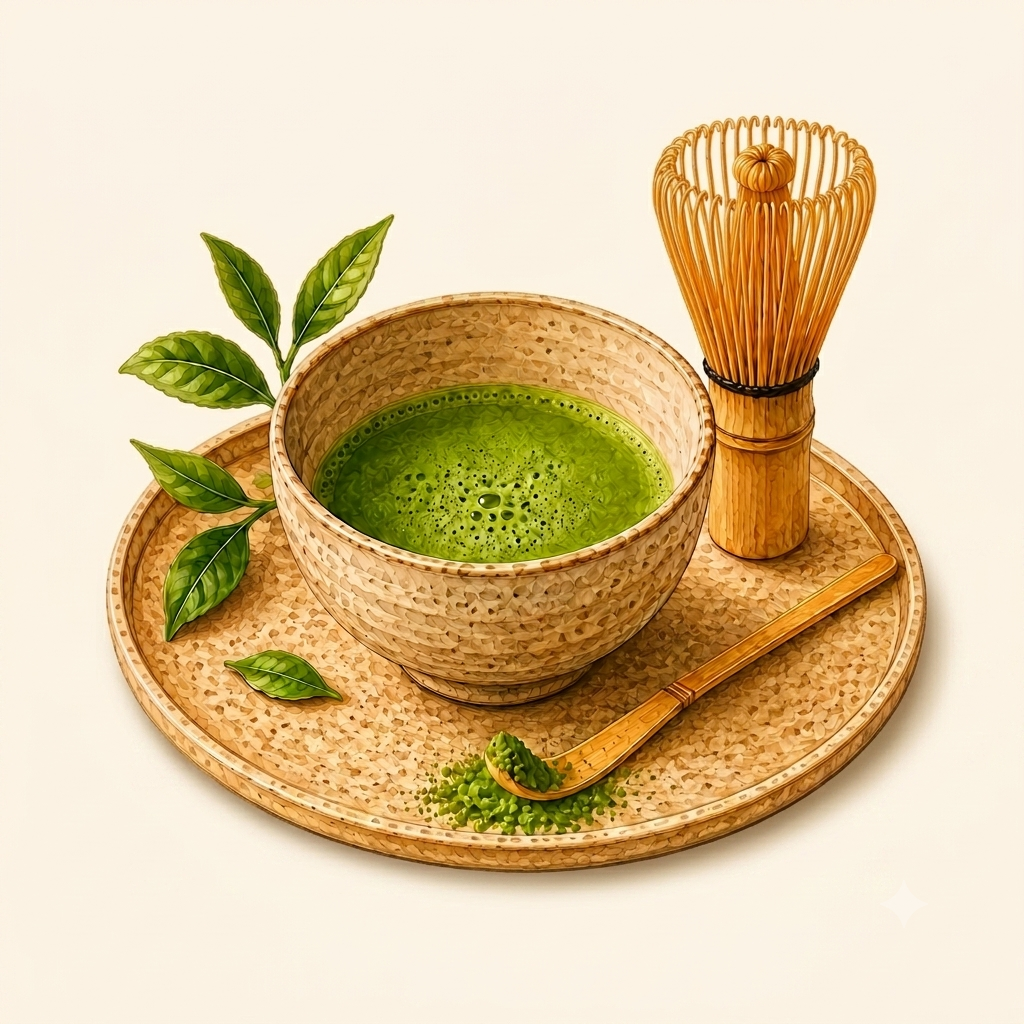
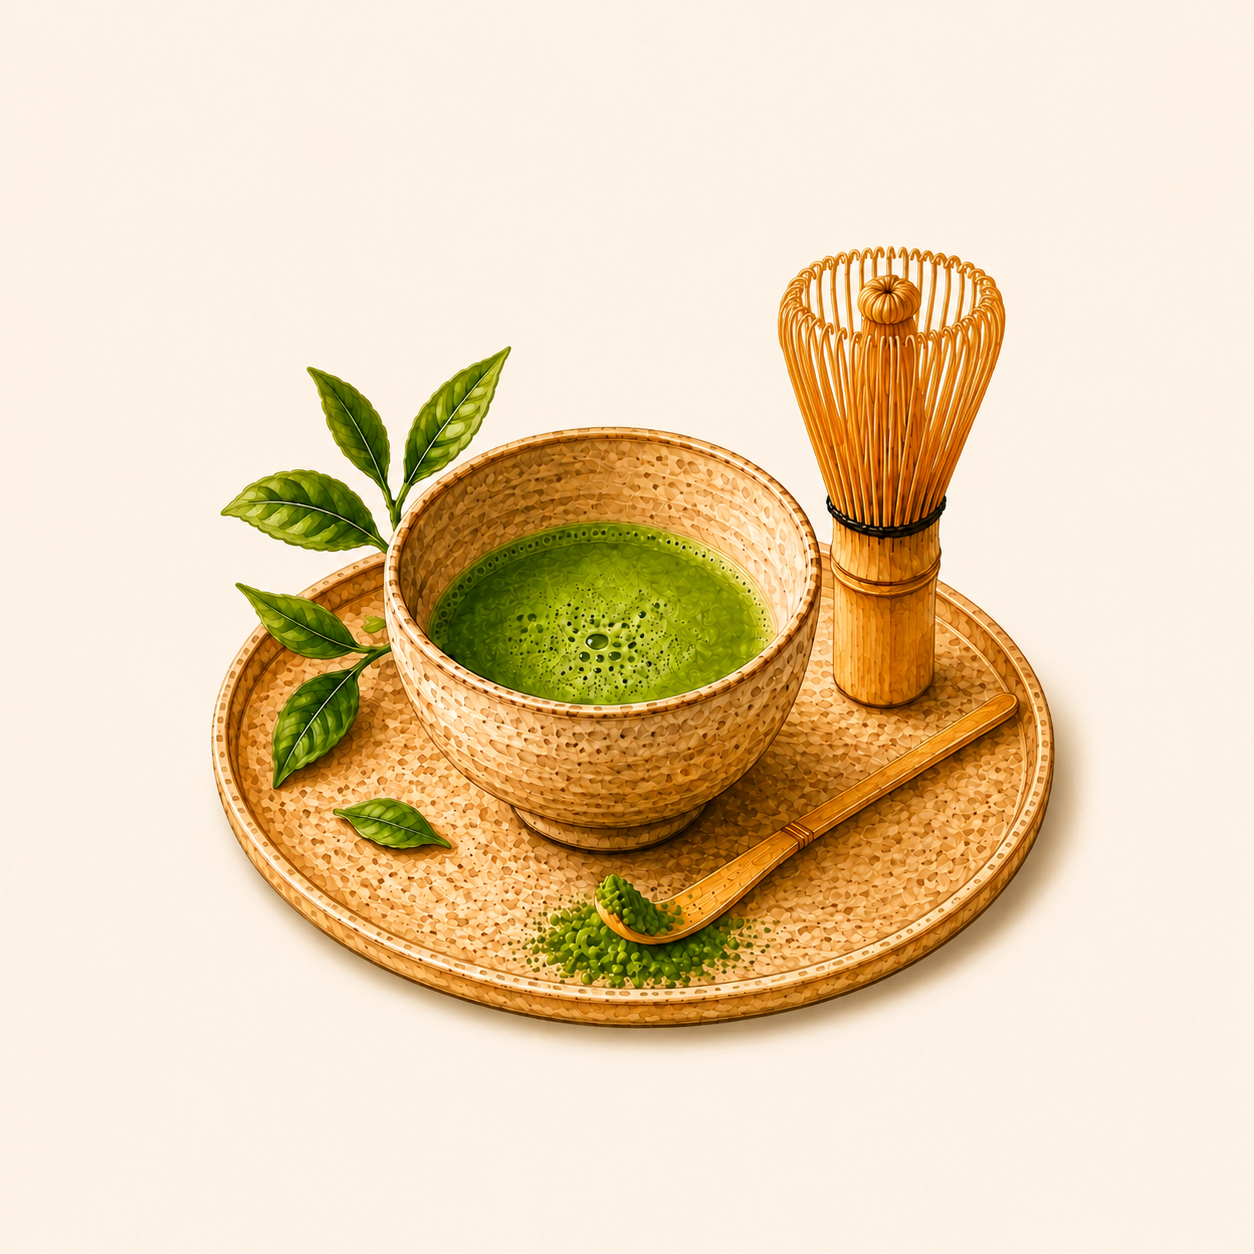
Ticker rebuild: 2 horizontal rows tilted 8°, cream bg, dark border cards
- Ticker: rebuilt as two horizontal rows at 8° diagonal tilt
  top row scrolls left, bottom row scrolls right; 3 images per row
  42vw square cards, dark border, cream #FCF8F2 background
  seamless loop via [A,B,C,A,B,C] + translateX(-50%) + margin-right on cards
- Removed rupee burst / money shower completely
- Removed T&C from collectible card, card reverted to original clean design
- Shubh muhurat: eyebrow-label span with margin-right:-0.22em cancels
  trailing letter-spacing so both flower gaps are exactly equal
- Fix fred again image: renamed music-fredagain.PNG → .png (case-sensitive on Vercel)
- Updated food-matcha.png asset

diff --git a/app/src/styles.css b/app/src/styles.css
@@ -1061,11 +1061,17 @@ button {
   top: 28px;
   font-family: var(--display);
   font-size: 15px;
-  letter-spacing: 0.22em;
   opacity: 0.8;
   display: flex;
   align-items: center;
   gap: 0;
+}
+
+/* letter-spacing lives on the text span, not the flex parent, so trailing
+   letter-spacing doesn't make the right flower gap wider than the left */
+.eyebrow-label {
+  letter-spacing: 0.22em;
+  margin-right: -0.22em;
 }
 
 .eyebrow-flower {
@@ -1108,14 +1114,11 @@ button {
   100% { transform: scale(1.04); }
 }
 
-/* ---- ticker: pre-card-reveal scrolling columns ---- */
+/* ---- ticker: two horizontal rows, tilted 8° as one diagonal belt ---- */
 .ticker-bg {
   position: fixed;
   inset: 0;
-  background: #1C0A06;
-  display: flex;
-  gap: 0;
-  align-items: flex-start;
+  background: #FCF8F2;
   overflow: hidden;
   z-index: 0;
   opacity: 1;
@@ -1123,60 +1126,54 @@ button {
   pointer-events: none;
 }
 
-/* dims behind the collectible card — stays looping continuously */
 .ticker-bg-dim {
-  opacity: 0.35;
+  opacity: 0.3;
 }
 
-.ticker-col {
+/* each row sits in a rotating wrapper positioned at top/bottom of screen */
+.ticker-row-wrap {
+  position: absolute;
+  left: -30vw;
+  width: 160vw;
+  transform: rotate(8deg);
+  transform-origin: center center;
+  overflow: visible;
+}
+
+.ticker-row-wrap-top    { top: 6vh; }
+.ticker-row-wrap-bottom { bottom: 6vh; }
+
+/* the scrolling row itself */
+.ticker-row {
   display: flex;
-  flex-direction: column;
-  gap: 0;
-  flex-shrink: 0;
-  width: 50vw;
-  overflow: hidden;
-  align-items: center;
+  flex-direction: row;
+  width: max-content;
 }
 
-/* left column scrolls up */
-.ticker-col-up {
-  animation: ticker-up 22s linear infinite;
-}
+/* margin-right on each card (not gap on row) so translateX(-50%) is a perfect
+   seamless loop: total width = 6*(card+margin), half = 3*(card+margin) exactly */
+.ticker-scroll-left  { animation: ticker-left  26s linear infinite; }
+.ticker-scroll-right { animation: ticker-right 26s linear infinite; }
 
-/* right column scrolls down */
-.ticker-col-down {
-  animation: ticker-down 22s linear infinite;
-}
+@keyframes ticker-left  { from { transform: translateX(0); }    to { transform: translateX(-50%); } }
+@keyframes ticker-right { from { transform: translateX(-50%); } to { transform: translateX(0); } }
 
-@keyframes ticker-up {
-  from { transform: translateY(0); }
-  to   { transform: translateY(-50%); }
-}
-
-@keyframes ticker-down {
-  from { transform: translateY(-50%); }
-  to   { transform: translateY(0); }
-}
-
-/* portrait rectangular cards filling each 50vw column — gap via margin-bottom so
-   translateY(-50%) stays a perfect seamless loop point */
 .ticker-card {
-  width: 47vw;
-  aspect-ratio: 3/4;
+  width: 42vw;
+  aspect-ratio: 1;
   flex-shrink: 0;
   background: #FFFDF7;
-  border: 1px solid rgba(212, 175, 55, 0.30);
-  border-radius: 14px;
-  transform: rotate(5deg);
-  margin-bottom: 12px;
+  border: 2px solid rgba(26, 26, 26, 0.45);
+  border-radius: 12px;
   overflow: hidden;
+  margin-right: 8px;
 }
 
 .ticker-card img {
   width: 100%;
   height: 100%;
   object-fit: contain;
-  padding: 10px;
+  padding: 6px;
   display: block;
 }
 
@@ -1188,23 +1185,6 @@ button {
 @keyframes card-reveal {
   from { opacity: 0; transform: scale(0.92); }
   to   { opacity: 1; transform: scale(1); }
-}
-
-/* ---- rupee note money shower from collectible card center ---- */
-/* notes burst outward from card center, then fall off bottom of screen — no fade */
-@keyframes money-burst {
-  0%   {
-    transform: translate(-50%, -50%) rotate(0deg) scale(0.6);
-    opacity: 1;
-  }
-  22%  {
-    transform: translate(calc(-50% + var(--bx) * 0.6), calc(-50% + var(--by) * 0.6)) rotate(calc(var(--spin) * 0.35)) scale(1);
-    opacity: 1;
-  }
-  100% {
-    transform: translate(calc(-50% + var(--bx)), calc(-50% + var(--by) + var(--fall))) rotate(var(--spin)) scale(0.9);
-    opacity: 1;
-  }
 }
 
 /* ---- final card: modern editorial ---- */
@@ -1341,45 +1321,6 @@ button {
   color: var(--coral);
 }
 
-.final-tnc {
-  margin-top: 12px;
-  text-align: left;
-}
-
-.final-tnc-heading {
-  font-size: 9px;
-  letter-spacing: 0.18em;
-  text-transform: uppercase;
-  color: rgba(26, 26, 26, 0.38);
-  font-style: italic;
-  margin-bottom: 5px;
-}
-
-.final-tnc-list {
-  list-style: none;
-  padding: 0;
-  display: flex;
-  flex-direction: column;
-  gap: 3px;
-  counter-reset: tnc;
-}
-
-.final-tnc-list li {
-  counter-increment: tnc;
-  font-size: 9px;
-  line-height: 1.45;
-  color: rgba(26, 26, 26, 0.38);
-  font-style: italic;
-  padding-left: 12px;
-  position: relative;
-}
-
-.final-tnc-list li::before {
-  content: counter(tnc) '.';
-  position: absolute;
-  left: 0;
-  color: rgba(26, 26, 26, 0.28);
-}
 
 .copy-toast {
   font-size: 13px;

diff --git a/app/src/components/Ticker.jsx b/app/src/components/Ticker.jsx
@@ -1,5 +1,9 @@
 import { useMemo } from 'react'
 
+// Two horizontal rows tilted ~8° as one diagonal belt.
+// Row 1 scrolls left, row 2 scrolls right.
+// 3 images per row, seamless loop via [A,B,C,A,B,C] + translateX(-50%).
+// margin-right on cards (not gap on row) keeps the -50% loop point exact.
 export default function Ticker({ picks, dim }) {
   const images = useMemo(() => {
     const imgs = [
@@ -13,26 +17,28 @@ export default function Ticker({ picks, dim }) {
     return [...imgs].sort(() => Math.random() - 0.5)
   }, [picks])
 
-  // each column gets all 6 images (different rotation) so no image repeats on screen
-  // with 44vw cards (~171px on 390px phone), 6 cards = ~1026px > viewport height
-  const left  = images
-  const right = [...images.slice(3), ...images.slice(0, 3)]
+  const row1 = images.slice(0, 3)
+  const row2 = images.slice(3, 6)
 
   return (
     <div className={`ticker-bg${dim ? ' ticker-bg-dim' : ''}`} aria-hidden="true">
-      <div className="ticker-col ticker-col-up">
-        {[...left, ...left].map((img, i) => (
-          <div key={i} className="ticker-card">
-            <img src={`/assets/${img}.png`} alt="" draggable="false" />
-          </div>
-        ))}
+      <div className="ticker-row-wrap ticker-row-wrap-top">
+        <div className="ticker-row ticker-scroll-left">
+          {[...row1, ...row1].map((img, i) => (
+            <div key={i} className="ticker-card">
+              <img src={`/assets/${img}.png`} alt="" draggable="false" />
+            </div>
+          ))}
+        </div>
       </div>
-      <div className="ticker-col ticker-col-down">
-        {[...right, ...right].map((img, i) => (
-          <div key={i} className="ticker-card">
-            <img src={`/assets/${img}.png`} alt="" draggable="false" />
-          </div>
-        ))}
+      <div className="ticker-row-wrap ticker-row-wrap-bottom">
+        <div className="ticker-row ticker-scroll-right">
+          {[...row2, ...row2].map((img, i) => (
+            <div key={i} className="ticker-card">
+              <img src={`/assets/${img}.png`} alt="" draggable="false" />
+            </div>
+          ))}
+        </div>
       </div>
     </div>
   )

diff --git a/app/src/components/FinalCard.jsx b/app/src/components/FinalCard.jsx
@@ -1,6 +1,5 @@
 import { useState, useRef, useEffect } from 'react'
 import Ticker from './Ticker'
-import RupeeBurst from './RupeeBurst'
 import { formatINR, verdictFor } from '../data'
 
 function roundRect(ctx, x, y, w, h, r) {
@@ -174,25 +173,10 @@ async function generateCardBlob(total, verdict, highlights) {
 export default function FinalCard({ picks, total, onRestart }) {
   const [toast, setToast] = useState('')
   const [cardVisible, setCardVisible] = useState(false)
-  const [burst, setBurst] = useState(null)
   const cardRef = useRef(null)
 
   useEffect(() => {
-    const t = setTimeout(() => {
-      setCardVisible(true)
-      // wait two frames after card mounts so getBoundingClientRect is accurate
-      setTimeout(() => {
-        requestAnimationFrame(() => {
-          requestAnimationFrame(() => {
-            if (cardRef.current) {
-              const r = cardRef.current.getBoundingClientRect()
-              setBurst({ x: r.left + r.width / 2, y: r.top + r.height / 2 })
-              setTimeout(() => setBurst(null), 3500)
-            }
-          })
-        })
-      }, 200)
-    }, 600)
+    const t = setTimeout(() => setCardVisible(true), 600)
     return () => clearTimeout(t)
   }, [])
 
@@ -266,7 +250,6 @@ export default function FinalCard({ picks, total, onRestart }) {
   return (
     <main className="screen final">
       <Ticker picks={picks} dim={cardVisible} />
-      {burst && <RupeeBurst x={burst.x} y={burst.y} />}
       {cardVisible && (
         <>
           <div className="final-card final-card-reveal" ref={cardRef}>
@@ -298,16 +281,6 @@ export default function FinalCard({ picks, total, onRestart }) {
             <p className="final-paidby">
               paid by: <em>vibes</em>
             </p>
-
-            <div className="final-tnc">
-              <p className="final-tnc-heading">terms &amp; conditions</p>
-              <ol className="final-tnc-list">
-                <li>Vendor confirmations via WA arrive between 3am and never.</li>
-                <li>Caterer has the freedom to cancel last minute.</li>
-                <li>BBC is not liable for family drama, opinions, or baraat delays.</li>
-                <li>By proceeding, you accept shaadi mein yahi hota hai.</li>
-              </ol>
-            </div>
           </div>
 
           {toast && <p className="copy-toast">{toast}</p>}

diff --git a/app/src/components/Level3.jsx b/app/src/components/Level3.jsx
@@ -28,7 +28,7 @@ export default function Level3({ picks, onDone }) {
     <main className="screen level3">
       <p className="level3-eyebrow">
         <img src="/assets/marigold-orange.png" className="eyebrow-flower" alt="" aria-hidden="true" />
-        Shubh muhurat
+        <span className="eyebrow-label">Shubh muhurat</span>
         <img src="/assets/marigold-orange.png" className="eyebrow-flower" alt="" aria-hidden="true" />
       </p>
       <div className="level3-stage">